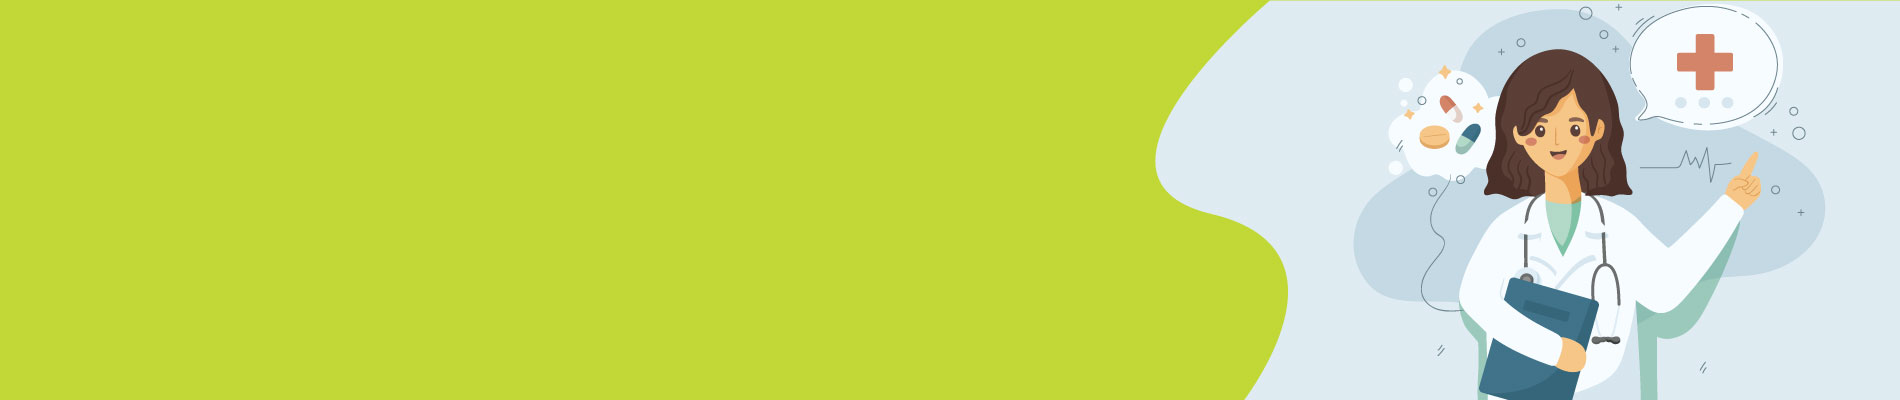
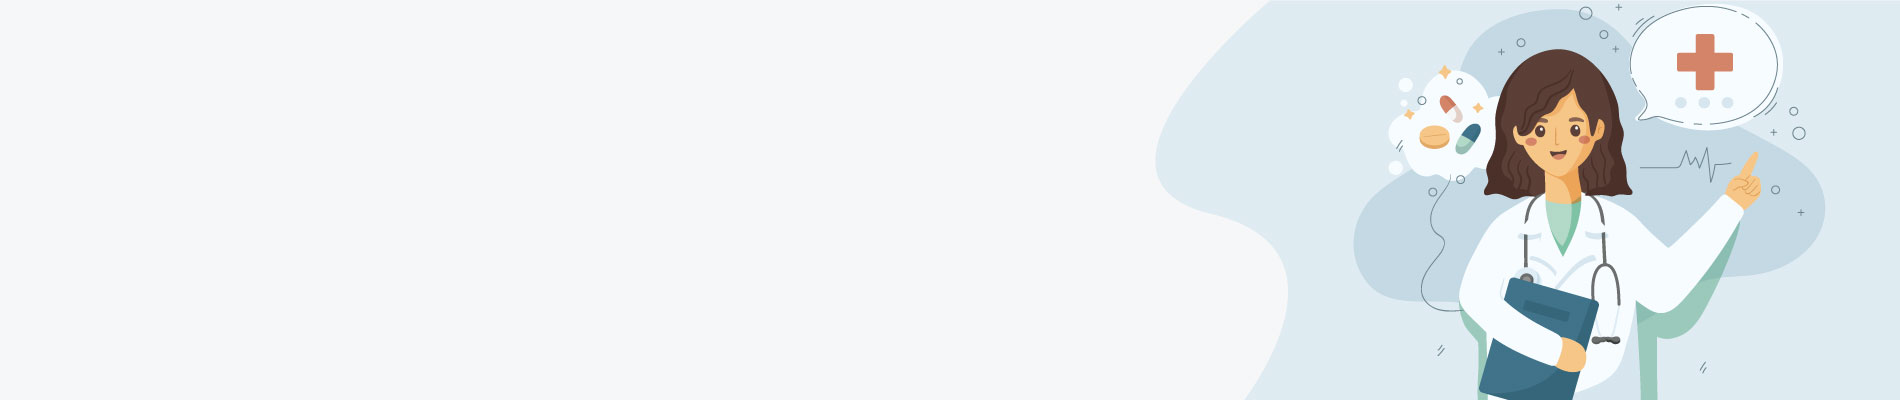
new

diff --git a/css/main.css b/css/main.css
@@ -29,16 +29,13 @@ body {
     margin-top: 10px;
 }
 .main-slider h4{
-    padding-top: 10px;
     font-size: 48px;
-    font-weight: bold;
 }
 .main-slider p{
     font-size: 16px;
-    color: #656565;
+    color: #9e9e9e;
     padding-right: 80px;
     text-shadow: none;
-    font-weight: 700;
 }
 .main-slider .btns{
     margin-top: 10px;
@@ -58,27 +55,28 @@ body {
 }
 
 .navbar-default .navbar-nav > .active > a, .navbar-default .navbar-nav > .active > a:hover, .navbar-default .navbar-nav > .active > a:focus {
-    color: #fff;
+    color: #216e36;
     background: none;
     border-bottom: 4px solid #216e36;
 }
 .navbar-default .navbar-nav > li > a {
-    color: #fff;
+    color: #6f6f6f;
 }
 .navbar-default {
     background-color: transparent;
     border-color: transparent;
-    border: 1px solid #aabd2f;
+    border: 1px solid #e8e8e8;
     height: 65px;
      transition:500ms ease;
 }
 .navbar-default.scrolled{
-   background-color: #adbe3a;
+    box-shadow: 0 1px 5px rgba(190,190,190,.5);
+    background-color: #ffffff;
 }
 .navbar-brand > img {
     display: block;
     width: 80%;
-    margin-top: 10px;
+    margin-top: 5px;
 }
 .navbar-fixed-top {
     top: 0;
@@ -91,7 +89,7 @@ body {
     border-color: #adbe3a;
 }
 .navbar-default .navbar-toggle .icon-bar {
-    background-color: #fff;
+    background-color: #208a3e;
 }
 .reg-btn{
     padding: 7px 20px !important;
@@ -114,6 +112,7 @@ body {
     left: 10%;
     width: 40%;
     font-size: 50px;
+    text-shadow: inherit;
 }
 .carousel-caption h3{
     font-size: 40px;
@@ -121,7 +120,7 @@ body {
 .carousel-caption h4{
     line-height: 56px;
     font-size: 46px;
-    color: #ffffff;
+    color: #656565;
 }
 .carousel-btn{
     font-size: 14px;
@@ -196,10 +195,10 @@ a:hover.carousel-btn {
 }
 /* carousel fullscreen */
 .carousel-fullscreen .carousel-inner .item {
-    min-height: 630px; 
+    min-height: 638px; 
     background-position: center center; 
     background-repeat: no-repeat; 
-    background-size: cover;
+    background-size: contain;
     background-position: 77% 10%;
     
 }
@@ -220,7 +219,7 @@ a:hover.carousel-btn {
     transition: all 0.2s ease-out;
 }
 .about{
-   margin-top: 40px;  
+   margin-top: 10px;  
 }
 .about-image-circle{
     width: 248px;
@@ -272,7 +271,7 @@ a:hover.carousel-btn {
 .expertise{
     margin-top: 60px;
 }
-.expertise-inner,.register{
+.expertise-inner{
     background-color: #F5F5F5;
 }
 .expertise-hover{
@@ -348,6 +347,7 @@ a:hover.carousel-btn {
 }
 .footer-inner{
     background-color: #c2d835;
+    margin-top: -3px;
 }
 .exp img{
     display: block;
@@ -454,6 +454,7 @@ box-shadow: 0px -1px 9px 0px rgb(158 158 158 / 73%);
 }
 .melu-inner{
     background-color: #F5F5F5;
+    margin-top: -3px;
 }
 /*End-Jee*/
 .road-circle{
@@ -508,6 +509,7 @@ box-shadow:         -1px 0px 12px 0px rgba(50, 50, 50, 0.75);
 }
 .package{
     background-color: #F5F5F5;
+    margin-top: -3px;
 }
 .read{
     clip-path: polygon(100% 0, 100% 52%, 48% 70%, 48% 69%, 0 49%, 0 0);
@@ -717,6 +719,7 @@ position: relative;
 }
     .jee{
         margin-bottom: 10px;
+        background-color: #F3F4F4;
     } 
     .what-jee {
     padding-bottom: 10px;

diff --git a/neet.html b/neet.html
@@ -24,7 +24,7 @@
 </head>
 <body>
 <!--Home-Nav-->
-<nav role="navigation" class="navbar navbar-default navbar-fixed-top default-nav wow fadeInDown" id="mainNav" data-wow-duration="1000ms">
+<nav role="navigation" class="navbar navbar-default navbar-fixed-top  wow fadeInDown" id="mainNav" data-wow-duration="1000ms">
 <div class="container m-top">
 <div id="nav-bar" class="navbar-header">
 <button type="button" data-target="#navbarCollapse" data-toggle="collapse" class="navbar-toggle">
@@ -67,7 +67,7 @@
         <img src="image/neet-banner.jpg" class="jee-image hidden-xs">  
 <div class="container">
     <div class="jee-banner">
-      <span class="title-line title-line-2"></span><h4 class="title-text"><b>Neet</b></h4>
+      <span class="title-line"></span><h4 class="title-text"><b>Neet</b></h4>
        
     <div class="clearfix"></div>
     <div class="jee-wapper">
@@ -540,7 +540,7 @@ Lorem ipsum dolor sit amet, consectetur adipiscing elit. Sed malesuada vulputate
     
 <div class="footer">
 <div class="footer-top-img">
-    <img src="image/footer-bg.png">
+    <img src="image/jee-footer.png">
 </div>
     <div class="footer-inner">
         <div class="container">

diff --git a/jee.html b/jee.html
@@ -24,7 +24,7 @@
 </head>
 <body>
 <!--Home-Nav-->
-<nav role="navigation" class="navbar navbar-default navbar-fixed-top default-nav wow fadeInDown" id="mainNav" data-wow-duration="1000ms">
+<nav role="navigation" class="navbar navbar-default navbar-fixed-top  wow fadeInDown" id="mainNav" data-wow-duration="1000ms">
 <div class="container m-top">
 <div id="nav-bar" class="navbar-header">
 <button type="button" data-target="#navbarCollapse" data-toggle="collapse" class="navbar-toggle">
@@ -539,7 +539,7 @@ Lorem ipsum dolor sit amet, consectetur adipiscing elit. Sed malesuada vulputate
     
 <div class="footer">
 <div class="footer-top-img">
-    <img src="image/footer-bg.png">
+    <img src="image/jee-footer.png">
 </div>
     <div class="footer-inner">
         <div class="container">

diff --git a/register.html b/register.html
@@ -22,7 +22,7 @@
 </head>
 <body>
 <!--Home-Nav-->
-<nav role="navigation" class="navbar navbar-default navbar-fixed-top default-nav wow fadeInDown" data-wow-duration="1500ms" id="mainNav">
+<nav role="navigation" class="navbar navbar-default navbar-fixed-top  wow fadeInDown" data-wow-duration="1500ms" id="mainNav">
 <div class="container m-top">
 <div id="nav-bar" class="navbar-header">
 <button type="button" data-target="#navbarCollapse" data-toggle="collapse" class="navbar-toggle">
@@ -93,7 +93,7 @@ Start Your Free Trial Today !</p>
 </div>
 <div class="footer">
 <div class="footer-top-img">
-    <img src="image/footer-bg.png">
+    <img src="image/jee-footer.png">
 </div>
     <div class="footer-inner">
         <div class="container">
